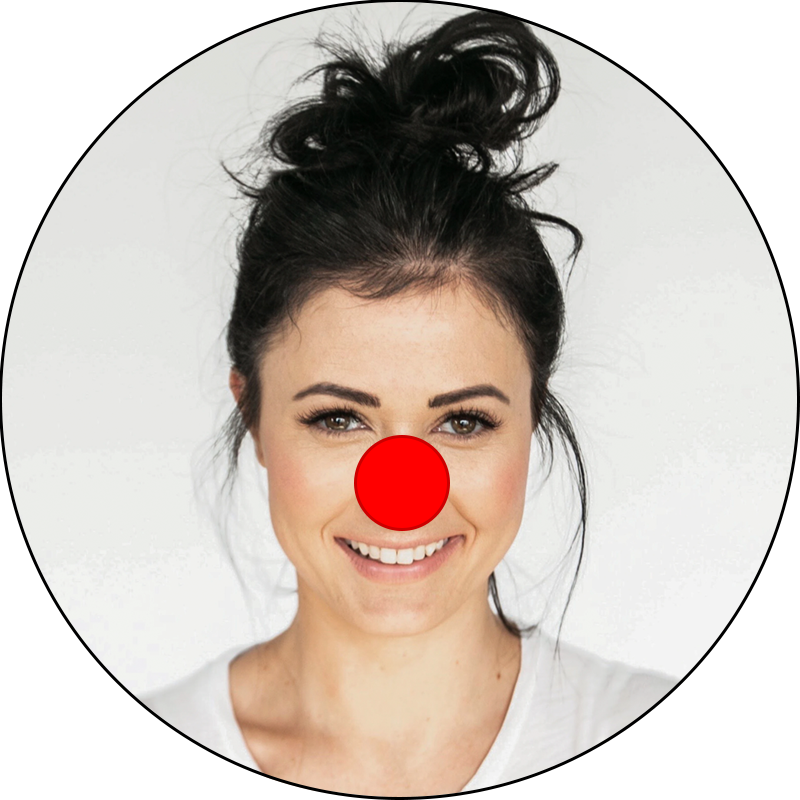
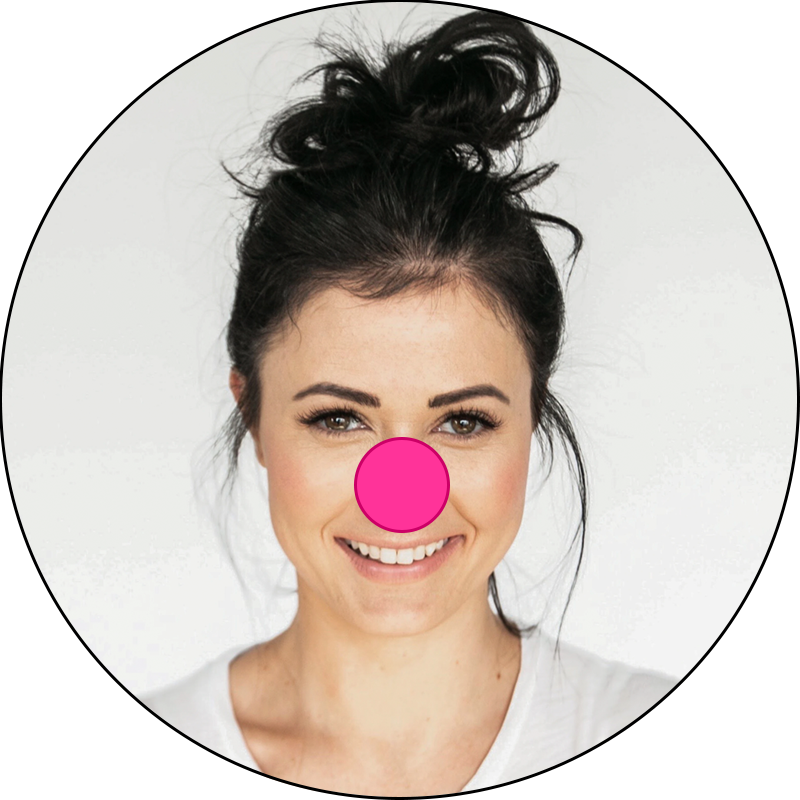
Bilder Über-uns-Seite
Bilder über-uns-seite (inkl. hover-bilder) sind erstellt.

Changed region(s): [[0.4375, 0.5312, 0.5625, 0.6875]]

diff --git a/ueber-uns.html b/ueber-uns.html
@@ -79,8 +79,8 @@
             <article class="mitarbeiter">
                 <a href="ueber-mich.html" class="mitarbeiter-link">
                     <div class="rote-nase-hovern">
-                        <img src="images/portrait-1.png" alt="News-1" class="original-bild">
-                        <img src="images/portrait-1-nase.png" alt="News-1" class="hover-bild">
+                        <img src="images/portrait-2.png" alt="News-1" class="original-bild">
+                        <img src="images/portrait-2-hut.png" alt="News-1" class="hover-bild">
                     </div>
                     <h2 class="name-zentrieren">Name</h2>
                     <p class="funktion-zentrieren">Funktion</p>
@@ -89,8 +89,8 @@
             <article class="mitarbeiter">
                 <a href="ueber-mich.html" class="mitarbeiter-link">
                     <div class="rote-nase-hovern">
-                        <img src="images/portrait-1.png" alt="News-1" class="original-bild">
-                        <img src="images/portrait-1-nase.png" alt="News-1" class="hover-bild">
+                        <img src="images/portrait-3.png" alt="News-1" class="original-bild">
+                        <img src="images/portrait-3-schnauz.png" alt="News-1" class="hover-bild">
                     </div>
                     <h2 class="name-zentrieren">Name</h2>
                     <p class="funktion-zentrieren">Funktion</p>
@@ -99,8 +99,8 @@
             <article class="mitarbeiter">
                 <a href="ueber-mich.html" class="mitarbeiter-link">
                     <div class="rote-nase-hovern">
-                        <img src="images/portrait-1.png" alt="News-1" class="original-bild">
-                        <img src="images/portrait-1-nase.png" alt="News-1" class="hover-bild">
+                        <img src="images/portrait-4.png" alt="News-1" class="original-bild">
+                        <img src="images/portrait-4-brille.png" alt="News-1" class="hover-bild">
                     </div>
                     <h2 class="name-zentrieren">Name</h2>
                     <p class="funktion-zentrieren">Funktion</p>
@@ -109,8 +109,8 @@
             <article class="mitarbeiter">
                 <a href="ueber-mich.html" class="mitarbeiter-link">
                     <div class="rote-nase-hovern">
-                        <img src="images/portrait-1.png" alt="News-1" class="original-bild">
-                        <img src="images/portrait-1-nase.png" alt="News-1" class="hover-bild">
+                        <img src="images/portrait-5.png" alt="News-1" class="original-bild">
+                        <img src="images/portrait-5-hut.png" alt="News-1" class="hover-bild">
                     </div>
                     <h2 class="name-zentrieren">Name</h2>
                     <p class="funktion-zentrieren">Funktion</p>
@@ -119,8 +119,8 @@
             <article class="mitarbeiter">
                 <a href="ueber-mich.html" class="mitarbeiter-link">
                     <div class="rote-nase-hovern">
-                        <img src="images/portrait-1.png" alt="News-1" class="original-bild">
-                        <img src="images/portrait-1-nase.png" alt="News-1" class="hover-bild">
+                        <img src="images/portrait-6.png" alt="News-1" class="original-bild">
+                        <img src="images/portrait-6-schleife.png" alt="News-1" class="hover-bild">
                     </div>
                     <h2 class="name-zentrieren">Name</h2>
                     <p class="funktion-zentrieren">Funktion</p>
